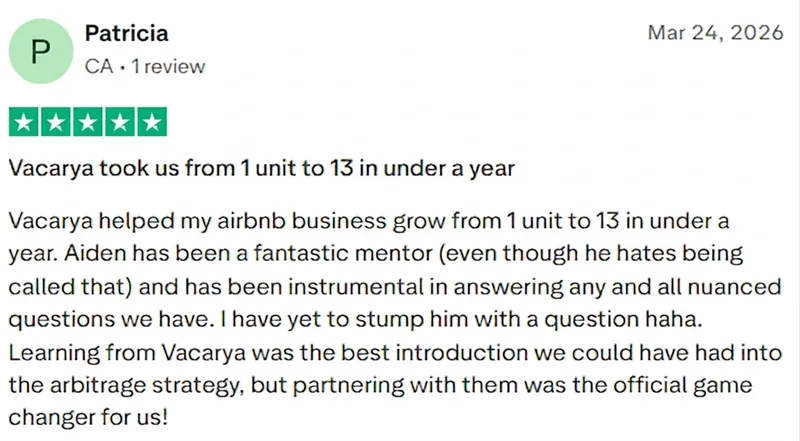
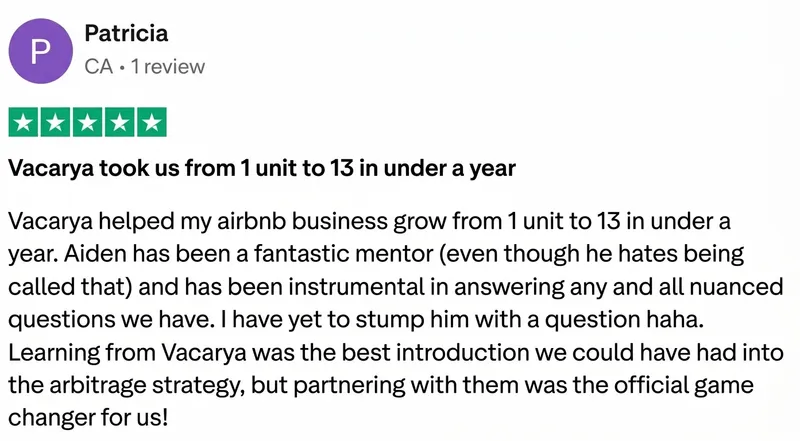
Replace the H Quinn and Patricia review screenshots
Both earlier captures had a date in the corner. These are recaptured without it.

Patricia comes out at the same 800x441, so nothing else moves. H Quinn is now a
real 800px capture rather than the 553px one it was — the only low-resolution
image in the set — so its entry picks up the new 800x477 dimensions and the note
calling that out is gone. The slightly taller box shifts its column by 23px,
well inside the balance the packer already holds.

Verified at 1400 and 390: 20 reviews in 3 then 2 columns, both images decoding
at their declared size, columns still level within 85px, and the ranking still
heading each column.

Claude-Session: https://claude.ai/code/session_015BAWUuADKdgvN3VfuBeefw

diff --git a/wordpress/vacarya-call-confirmation.html b/wordpress/vacarya-call-confirmation.html
@@ -655,7 +655,7 @@ body:has(.vcc-page) {
     <div class="vcc-divider" aria-hidden="true">|</div>
     <section class="vcc-card"><h2 class="vcc-card__header">Step 4: Hear From Our Partners</h2><div class="vcc-body vcc-partners"><div class="vcc-partners__grid"><div class="vcc-partner"><p class="vcc-partner__name">- Josh C.</p><div class="vcc-video" data-video="UH3YggU0nB1bDod_" data-ratio="177.78"><div id="vidalytics_embed_UH3YggU0nB1bDod_" class="vcc-video-mount" style="padding-top:177.78%"></div></div></div><div class="vcc-partner"><p class="vcc-partner__name">- Patricia G.</p><div class="vcc-video" data-video="9ZMBSpvLpcRNeL8m" data-ratio="177.78" data-loader="settings"><div id="9ZMBSpvLpcRNeL8m" class="vcc-video-mount" style="padding-top:177.78%"></div></div></div><div class="vcc-partner"><p class="vcc-partner__name">- Helen Q.</p><div class="vcc-video" data-video="_3LhJcZabSuVtAqn" data-ratio="177.78" data-loader="settings"><div id="_3LhJcZabSuVtAqn" class="vcc-video-mount" style="padding-top:177.78%"></div></div></div><div class="vcc-partner"><p class="vcc-partner__name">- Rob V.</p><div class="vcc-video" data-video="AT3E6HoGHbMxB4ug" data-ratio="177.78" data-loader="settings"><div id="AT3E6HoGHbMxB4ug" class="vcc-video-mount" style="padding-top:177.78%"></div></div></div><div class="vcc-partner"><p class="vcc-partner__name">- Ravi R.</p><div class="vcc-video" data-video="d6GhhPiwXRTZIh55" data-ratio="177.78" data-loader="settings"><div id="d6GhhPiwXRTZIh55" class="vcc-video-mount" style="padding-top:177.78%"></div></div></div><div class="vcc-partner"><p class="vcc-partner__name">- Mike E.</p><div class="vcc-video" data-video="S2udtgRr3weGPAMJ" data-ratio="177.78" data-loader="settings"><div id="S2udtgRr3weGPAMJ" class="vcc-video-mount" style="padding-top:177.78%"></div></div></div><div class="vcc-partner"><p class="vcc-partner__name">- Sajeed A.</p><div class="vcc-video" data-video="o9Ho5JnqweHAsKkj" data-ratio="177.78" data-loader="settings"><div id="o9Ho5JnqweHAsKkj" class="vcc-video-mount" style="padding-top:177.78%"></div></div></div><div class="vcc-partner"><p class="vcc-partner__name">- Kevin M.</p><div class="vcc-video" data-video="AtKNDCr00S_Yyh0G" data-ratio="177.78" data-loader="settings"><div id="AtKNDCr00S_Yyh0G" class="vcc-video-mount" style="padding-top:177.78%"></div></div></div><div class="vcc-partner"><p class="vcc-partner__name">- John S.</p><div class="vcc-video" data-video="TBDybqUkvVpuF5cy" data-ratio="177.78" data-loader="settings"><div id="TBDybqUkvVpuF5cy" class="vcc-video-mount" style="padding-top:177.78%"></div></div></div><div class="vcc-partner"><p class="vcc-partner__name">- Devang B.</p><div class="vcc-video" data-video="BEIWJ7hHIaXtj5E9" data-ratio="177.78" data-loader="settings"><div id="BEIWJ7hHIaXtj5E9" class="vcc-video-mount" style="padding-top:177.78%"></div></div></div><div class="vcc-partner"><p class="vcc-partner__name">- Greg L.</p><div class="vcc-video" data-video="O6XYSCu2jX0XvhUf" data-ratio="177.78" data-loader="settings"><div id="O6XYSCu2jX0XvhUf" class="vcc-video-mount" style="padding-top:177.78%"></div></div></div><div class="vcc-partner"><p class="vcc-partner__name">- Andy D.</p><div class="vcc-video" data-video="WoB8QPzALc0OUKH6" data-ratio="177.78"><div id="vidalytics_embed_WoB8QPzALc0OUKH6" class="vcc-video-mount" style="padding-top:177.78%"></div></div></div><div class="vcc-partner"><p class="vcc-partner__name">- Kajana D.</p><div class="vcc-video" data-video="YMTcLkxOfEPogHig" data-ratio="177.78"><div id="vidalytics_embed_YMTcLkxOfEPogHig" class="vcc-video-mount" style="padding-top:177.78%"></div></div></div><div class="vcc-partner"><p class="vcc-partner__name">- Fasi K.</p><div class="vcc-video" data-video="KCxrI1vlcJ71GTP9" data-ratio="177.78"><div id="vidalytics_embed_KCxrI1vlcJ71GTP9" class="vcc-video-mount" style="padding-top:177.78%"></div></div></div><div class="vcc-partner"><p class="vcc-partner__name">- Dylan M.</p><div class="vcc-video" data-video="C873MB3yzcU4eiHP" data-ratio="177.78"><div id="vidalytics_embed_C873MB3yzcU4eiHP" class="vcc-video-mount" style="padding-top:177.78%"></div></div></div><div class="vcc-partner"><p class="vcc-partner__name">- Jason L.</p><div class="vcc-video" data-video="Q7FZIMLXMLWHNdDk" data-ratio="177.78"><div id="vidalytics_embed_Q7FZIMLXMLWHNdDk" class="vcc-video-mount" style="padding-top:177.78%"></div></div></div><div class="vcc-partner"><p class="vcc-partner__name">- Dennis L.</p><div class="vcc-video" data-video="LUuJ8wfnCQ7QS1d3" data-ratio="177.78"><div id="vidalytics_embed_LUuJ8wfnCQ7QS1d3" class="vcc-video-mount" style="padding-top:177.78%"></div></div></div><div class="vcc-partner"><p class="vcc-partner__name">- Trevor J.</p><div class="vcc-video" data-video="WkyXHrLIcfaeY4yr" data-ratio="177.78"><div id="vidalytics_embed_WkyXHrLIcfaeY4yr" class="vcc-video-mount" style="padding-top:177.78%"></div></div></div><div class="vcc-partner"><p class="vcc-partner__name">- Trevor H.</p><div class="vcc-video" data-video="pJPnsekIVIAUwxYD" data-ratio="177.78"><div id="vidalytics_embed_pJPnsekIVIAUwxYD" class="vcc-video-mount" style="padding-top:177.78%"></div></div></div><div class="vcc-partner"><p class="vcc-partner__name">- Gaurav D.</p><div class="vcc-video" data-video="5KPTZEDzewMmOnXu" data-ratio="177.78" data-loader="settings"><div id="5KPTZEDzewMmOnXu" class="vcc-video-mount" style="padding-top:177.78%"></div></div></div><div class="vcc-partner"><p class="vcc-partner__name">- Tony G.</p><div class="vcc-video" data-video="cWgx4DGVi2lkzUK4" data-ratio="177.78" data-loader="settings"><div id="cWgx4DGVi2lkzUK4" class="vcc-video-mount" style="padding-top:177.78%"></div></div></div><div class="vcc-partner"><p class="vcc-partner__name">- Jessica</p><div class="vcc-video" data-video="zx8wRA3vo22fIHNK" data-ratio="177.78" data-loader="settings"><div id="zx8wRA3vo22fIHNK" class="vcc-video-mount" style="padding-top:177.78%"></div></div></div></div></div></section>
     <div class="vcc-divider" aria-hidden="true">|</div>
-    <section class="vcc-card"><h2 class="vcc-card__header">Step 5: Reviews &amp; Written Wins</h2><div class="vcc-body vcc-step5"><div class="vcc-reviews" id="vcc-reviews"><div class="vcc-reviews__column"><img class="vcc-review" src="https://vacarya-confirmation-page.vercel.app/reviews/review-20.webp" width="786" height="1999" alt="Client review" loading="lazy" decoding="async"><img class="vcc-review" src="https://vacarya-confirmation-page.vercel.app/reviews/review-11.webp" width="800" height="342" alt="Client review" loading="lazy" decoding="async"><img class="vcc-review" src="https://vacarya-confirmation-page.vercel.app/reviews/review-17.webp" width="800" height="942" alt="Client review" loading="lazy" decoding="async"><img class="vcc-review" src="https://vacarya-confirmation-page.vercel.app/reviews/review-8.webp" width="800" height="376" alt="Client review" loading="lazy" decoding="async"><img class="vcc-review" src="https://vacarya-confirmation-page.vercel.app/reviews/review-6.webp" width="800" height="276" alt="Client review" loading="lazy" decoding="async"></div><div class="vcc-reviews__column"><img class="vcc-review" src="https://vacarya-confirmation-page.vercel.app/reviews/review-14.webp" width="800" height="348" alt="Client review" loading="lazy" decoding="async"><img class="vcc-review" src="https://vacarya-confirmation-page.vercel.app/reviews/review-15.webp" width="800" height="414" alt="Client review" loading="lazy" decoding="async"><img class="vcc-review" src="https://vacarya-confirmation-page.vercel.app/reviews/review-2.webp" width="800" height="997" alt="Client review" loading="lazy" decoding="async"><img class="vcc-review" src="https://vacarya-confirmation-page.vercel.app/reviews/review-12.webp" width="800" height="416" alt="Client review" loading="lazy" decoding="async"><img class="vcc-review" src="https://vacarya-confirmation-page.vercel.app/reviews/review-9.webp" width="800" height="597" alt="Client review" loading="lazy" decoding="async"><img class="vcc-review" src="https://vacarya-confirmation-page.vercel.app/reviews/review-18.webp" width="800" height="411" alt="Client review" loading="lazy" decoding="async"><img class="vcc-review" src="https://vacarya-confirmation-page.vercel.app/reviews/review-7.webp" width="800" height="399" alt="Client review" loading="lazy" decoding="async"><img class="vcc-review" src="https://vacarya-confirmation-page.vercel.app/reviews/review-16.webp" width="800" height="314" alt="Client review" loading="lazy" decoding="async"></div><div class="vcc-reviews__column"><img class="vcc-review" src="https://vacarya-confirmation-page.vercel.app/reviews/review-4.webp" width="800" height="441" alt="Client review" loading="lazy" decoding="async"><img class="vcc-review" src="https://vacarya-confirmation-page.vercel.app/reviews/review-13.webp" width="800" height="823" alt="Client review" loading="lazy" decoding="async"><img class="vcc-review" src="https://vacarya-confirmation-page.vercel.app/reviews/review-3.webp" width="800" height="1114" alt="Client review" loading="lazy" decoding="async"><img class="vcc-review" src="https://vacarya-confirmation-page.vercel.app/reviews/review-1.webp" width="800" height="506" alt="Client review" loading="lazy" decoding="async"><img class="vcc-review" src="https://vacarya-confirmation-page.vercel.app/reviews/review-10.webp" width="800" height="389" alt="Client review" loading="lazy" decoding="async"><img class="vcc-review" src="https://vacarya-confirmation-page.vercel.app/reviews/review-5.webp" width="800" height="336" alt="Client review" loading="lazy" decoding="async"><img class="vcc-review" src="https://vacarya-confirmation-page.vercel.app/reviews/review-19.webp" width="553" height="330" alt="Client review" loading="lazy" decoding="async"></div></div><button type="button" class="vcc-more" id="vcc-more" aria-expanded="false">More Client Numbers</button><div class="vcc-earnings" id="vcc-earnings" hidden><img class="vcc-earning" data-src="https://vacarya-confirmation-page.vercel.app/revenue/earning-1.webp" width="272" height="444" alt="Client revenue" loading="lazy" decoding="async"><img class="vcc-earning" data-src="https://vacarya-confirmation-page.vercel.app/revenue/earning-2.webp" width="272" height="444" alt="Client revenue" loading="lazy" decoding="async"><img class="vcc-earning" data-src="https://vacarya-confirmation-page.vercel.app/revenue/earning-3.webp" width="272" height="444" alt="Client revenue" loading="lazy" decoding="async"><img class="vcc-earning" data-src="https://vacarya-confirmation-page.vercel.app/revenue/earning-4.webp" width="272" height="444" alt="Client revenue" loading="lazy" decoding="async"><img class="vcc-earning" data-src="https://vacarya-confirmation-page.vercel.app/revenue/earning-5.webp" width="272" height="444" alt="Client revenue" loading="lazy" decoding="async"><img class="vcc-earning" data-src="https://vacarya-confirmation-page.vercel.app/revenue/earning-6.webp" width="272" height="444" alt="Client revenue" loading="lazy" decoding="async"><img class="vcc-earning" data-src="https://vacarya-confirmation-page.vercel.app/revenue/earning-7.webp" width="272" height="444" alt="Client revenue" loading="lazy" decoding="async"><img class="vcc-earning" data-src="https://vacarya-confirmation-page.vercel.app/revenue/earning-8.webp" width="272" height="444" alt="Client revenue" loading="lazy" decoding="async"><img class="vcc-earning" data-src="https://vacarya-confirmation-page.vercel.app/revenue/earning-9.webp" width="272" height="444" alt="Client revenue" loading="lazy" decoding="async"><img class="vcc-earning" data-src="https://vacarya-confirmation-page.vercel.app/revenue/earning-10.webp" width="272" height="444" alt="Client revenue" loading="lazy" decoding="async"><img class="vcc-earning" data-src="https://vacarya-confirmation-page.vercel.app/revenue/earning-11.webp" width="272" height="444" alt="Client revenue" loading="lazy" decoding="async"><img class="vcc-earning" data-src="https://vacarya-confirmation-page.vercel.app/revenue/earning-12.webp" width="272" height="444" alt="Client revenue" loading="lazy" decoding="async"><img class="vcc-earning" data-src="https://vacarya-confirmation-page.vercel.app/revenue/earning-13.webp" width="272" height="444" alt="Client revenue" loading="lazy" decoding="async"><img class="vcc-earning" data-src="https://vacarya-confirmation-page.vercel.app/revenue/earning-14.webp" width="272" height="444" alt="Client revenue" loading="lazy" decoding="async"><img class="vcc-earning" data-src="https://vacarya-confirmation-page.vercel.app/revenue/earning-15.webp" width="272" height="444" alt="Client revenue" loading="lazy" decoding="async"><img class="vcc-earning" data-src="https://vacarya-confirmation-page.vercel.app/revenue/earning-16.webp" width="272" height="444" alt="Client revenue" loading="lazy" decoding="async"><img class="vcc-earning" data-src="https://vacarya-confirmation-page.vercel.app/revenue/earning-17.webp" width="272" height="444" alt="Client revenue" loading="lazy" decoding="async"><img class="vcc-earning" data-src="https://vacarya-confirmation-page.vercel.app/revenue/earning-18.webp" width="272" height="444" alt="Client revenue" loading="lazy" decoding="async"><img class="vcc-earning" data-src="https://vacarya-confirmation-page.vercel.app/revenue/earning-19.webp" width="272" height="444" alt="Client revenue" loading="lazy" decoding="async"><img class="vcc-earning" data-src="https://vacarya-confirmation-page.vercel.app/revenue/earning-20.webp" width="272" height="444" alt="Client revenue" loading="lazy" decoding="async"><img class="vcc-earning" data-src="https://vacarya-confirmation-page.vercel.app/revenue/earning-21.webp" width="272" height="444" alt="Client revenue" loading="lazy" decoding="async"><img class="vcc-earning" data-src="https://vacarya-confirmation-page.vercel.app/revenue/earning-22.webp" width="272" height="444" alt="Client revenue" loading="lazy" decoding="async"><img class="vcc-earning" data-src="https://vacarya-confirmation-page.vercel.app/revenue/earning-23.webp" width="272" height="444" alt="Client revenue" loading="lazy" decoding="async"><img class="vcc-earning" data-src="https://vacarya-confirmation-page.vercel.app/revenue/earning-24.webp" width="272" height="444" alt="Client revenue" loading="lazy" decoding="async"><img class="vcc-earning" data-src="https://vacarya-confirmation-page.vercel.app/revenue/earning-25.webp" width="272" height="444" alt="Client revenue" loading="lazy" decoding="async"><img class="vcc-earning" data-src="https://vacarya-confirmation-page.vercel.app/revenue/earning-26.webp" width="272" height="444" alt="Client revenue" loading="lazy" decoding="async"><img class="vcc-earning" data-src="https://vacarya-confirmation-page.vercel.app/revenue/earning-27.webp" width="272" height="444" alt="Client revenue" loading="lazy" decoding="async"><img class="vcc-earning" data-src="https://vacarya-confirmation-page.vercel.app/revenue/earning-28.webp" width="272" height="444" alt="Client revenue" loading="lazy" decoding="async"></div></div></section>
+    <section class="vcc-card"><h2 class="vcc-card__header">Step 5: Reviews &amp; Written Wins</h2><div class="vcc-body vcc-step5"><div class="vcc-reviews" id="vcc-reviews"><div class="vcc-reviews__column"><img class="vcc-review" src="https://vacarya-confirmation-page.vercel.app/reviews/review-20.webp" width="786" height="1999" alt="Client review" loading="lazy" decoding="async"><img class="vcc-review" src="https://vacarya-confirmation-page.vercel.app/reviews/review-11.webp" width="800" height="342" alt="Client review" loading="lazy" decoding="async"><img class="vcc-review" src="https://vacarya-confirmation-page.vercel.app/reviews/review-17.webp" width="800" height="942" alt="Client review" loading="lazy" decoding="async"><img class="vcc-review" src="https://vacarya-confirmation-page.vercel.app/reviews/review-8.webp" width="800" height="376" alt="Client review" loading="lazy" decoding="async"><img class="vcc-review" src="https://vacarya-confirmation-page.vercel.app/reviews/review-6.webp" width="800" height="276" alt="Client review" loading="lazy" decoding="async"></div><div class="vcc-reviews__column"><img class="vcc-review" src="https://vacarya-confirmation-page.vercel.app/reviews/review-14.webp" width="800" height="348" alt="Client review" loading="lazy" decoding="async"><img class="vcc-review" src="https://vacarya-confirmation-page.vercel.app/reviews/review-15.webp" width="800" height="414" alt="Client review" loading="lazy" decoding="async"><img class="vcc-review" src="https://vacarya-confirmation-page.vercel.app/reviews/review-2.webp" width="800" height="997" alt="Client review" loading="lazy" decoding="async"><img class="vcc-review" src="https://vacarya-confirmation-page.vercel.app/reviews/review-12.webp" width="800" height="416" alt="Client review" loading="lazy" decoding="async"><img class="vcc-review" src="https://vacarya-confirmation-page.vercel.app/reviews/review-9.webp" width="800" height="597" alt="Client review" loading="lazy" decoding="async"><img class="vcc-review" src="https://vacarya-confirmation-page.vercel.app/reviews/review-18.webp" width="800" height="411" alt="Client review" loading="lazy" decoding="async"><img class="vcc-review" src="https://vacarya-confirmation-page.vercel.app/reviews/review-7.webp" width="800" height="399" alt="Client review" loading="lazy" decoding="async"><img class="vcc-review" src="https://vacarya-confirmation-page.vercel.app/reviews/review-16.webp" width="800" height="314" alt="Client review" loading="lazy" decoding="async"></div><div class="vcc-reviews__column"><img class="vcc-review" src="https://vacarya-confirmation-page.vercel.app/reviews/review-4.webp" width="800" height="441" alt="Client review" loading="lazy" decoding="async"><img class="vcc-review" src="https://vacarya-confirmation-page.vercel.app/reviews/review-13.webp" width="800" height="823" alt="Client review" loading="lazy" decoding="async"><img class="vcc-review" src="https://vacarya-confirmation-page.vercel.app/reviews/review-3.webp" width="800" height="1114" alt="Client review" loading="lazy" decoding="async"><img class="vcc-review" src="https://vacarya-confirmation-page.vercel.app/reviews/review-1.webp" width="800" height="506" alt="Client review" loading="lazy" decoding="async"><img class="vcc-review" src="https://vacarya-confirmation-page.vercel.app/reviews/review-10.webp" width="800" height="389" alt="Client review" loading="lazy" decoding="async"><img class="vcc-review" src="https://vacarya-confirmation-page.vercel.app/reviews/review-5.webp" width="800" height="336" alt="Client review" loading="lazy" decoding="async"><img class="vcc-review" src="https://vacarya-confirmation-page.vercel.app/reviews/review-19.webp" width="800" height="477" alt="Client review" loading="lazy" decoding="async"></div></div><button type="button" class="vcc-more" id="vcc-more" aria-expanded="false">More Client Numbers</button><div class="vcc-earnings" id="vcc-earnings" hidden><img class="vcc-earning" data-src="https://vacarya-confirmation-page.vercel.app/revenue/earning-1.webp" width="272" height="444" alt="Client revenue" loading="lazy" decoding="async"><img class="vcc-earning" data-src="https://vacarya-confirmation-page.vercel.app/revenue/earning-2.webp" width="272" height="444" alt="Client revenue" loading="lazy" decoding="async"><img class="vcc-earning" data-src="https://vacarya-confirmation-page.vercel.app/revenue/earning-3.webp" width="272" height="444" alt="Client revenue" loading="lazy" decoding="async"><img class="vcc-earning" data-src="https://vacarya-confirmation-page.vercel.app/revenue/earning-4.webp" width="272" height="444" alt="Client revenue" loading="lazy" decoding="async"><img class="vcc-earning" data-src="https://vacarya-confirmation-page.vercel.app/revenue/earning-5.webp" width="272" height="444" alt="Client revenue" loading="lazy" decoding="async"><img class="vcc-earning" data-src="https://vacarya-confirmation-page.vercel.app/revenue/earning-6.webp" width="272" height="444" alt="Client revenue" loading="lazy" decoding="async"><img class="vcc-earning" data-src="https://vacarya-confirmation-page.vercel.app/revenue/earning-7.webp" width="272" height="444" alt="Client revenue" loading="lazy" decoding="async"><img class="vcc-earning" data-src="https://vacarya-confirmation-page.vercel.app/revenue/earning-8.webp" width="272" height="444" alt="Client revenue" loading="lazy" decoding="async"><img class="vcc-earning" data-src="https://vacarya-confirmation-page.vercel.app/revenue/earning-9.webp" width="272" height="444" alt="Client revenue" loading="lazy" decoding="async"><img class="vcc-earning" data-src="https://vacarya-confirmation-page.vercel.app/revenue/earning-10.webp" width="272" height="444" alt="Client revenue" loading="lazy" decoding="async"><img class="vcc-earning" data-src="https://vacarya-confirmation-page.vercel.app/revenue/earning-11.webp" width="272" height="444" alt="Client revenue" loading="lazy" decoding="async"><img class="vcc-earning" data-src="https://vacarya-confirmation-page.vercel.app/revenue/earning-12.webp" width="272" height="444" alt="Client revenue" loading="lazy" decoding="async"><img class="vcc-earning" data-src="https://vacarya-confirmation-page.vercel.app/revenue/earning-13.webp" width="272" height="444" alt="Client revenue" loading="lazy" decoding="async"><img class="vcc-earning" data-src="https://vacarya-confirmation-page.vercel.app/revenue/earning-14.webp" width="272" height="444" alt="Client revenue" loading="lazy" decoding="async"><img class="vcc-earning" data-src="https://vacarya-confirmation-page.vercel.app/revenue/earning-15.webp" width="272" height="444" alt="Client revenue" loading="lazy" decoding="async"><img class="vcc-earning" data-src="https://vacarya-confirmation-page.vercel.app/revenue/earning-16.webp" width="272" height="444" alt="Client revenue" loading="lazy" decoding="async"><img class="vcc-earning" data-src="https://vacarya-confirmation-page.vercel.app/revenue/earning-17.webp" width="272" height="444" alt="Client revenue" loading="lazy" decoding="async"><img class="vcc-earning" data-src="https://vacarya-confirmation-page.vercel.app/revenue/earning-18.webp" width="272" height="444" alt="Client revenue" loading="lazy" decoding="async"><img class="vcc-earning" data-src="https://vacarya-confirmation-page.vercel.app/revenue/earning-19.webp" width="272" height="444" alt="Client revenue" loading="lazy" decoding="async"><img class="vcc-earning" data-src="https://vacarya-confirmation-page.vercel.app/revenue/earning-20.webp" width="272" height="444" alt="Client revenue" loading="lazy" decoding="async"><img class="vcc-earning" data-src="https://vacarya-confirmation-page.vercel.app/revenue/earning-21.webp" width="272" height="444" alt="Client revenue" loading="lazy" decoding="async"><img class="vcc-earning" data-src="https://vacarya-confirmation-page.vercel.app/revenue/earning-22.webp" width="272" height="444" alt="Client revenue" loading="lazy" decoding="async"><img class="vcc-earning" data-src="https://vacarya-confirmation-page.vercel.app/revenue/earning-23.webp" width="272" height="444" alt="Client revenue" loading="lazy" decoding="async"><img class="vcc-earning" data-src="https://vacarya-confirmation-page.vercel.app/revenue/earning-24.webp" width="272" height="444" alt="Client revenue" loading="lazy" decoding="async"><img class="vcc-earning" data-src="https://vacarya-confirmation-page.vercel.app/revenue/earning-25.webp" width="272" height="444" alt="Client revenue" loading="lazy" decoding="async"><img class="vcc-earning" data-src="https://vacarya-confirmation-page.vercel.app/revenue/earning-26.webp" width="272" height="444" alt="Client revenue" loading="lazy" decoding="async"><img class="vcc-earning" data-src="https://vacarya-confirmation-page.vercel.app/revenue/earning-27.webp" width="272" height="444" alt="Client revenue" loading="lazy" decoding="async"><img class="vcc-earning" data-src="https://vacarya-confirmation-page.vercel.app/revenue/earning-28.webp" width="272" height="444" alt="Client revenue" loading="lazy" decoding="async"></div></div></section>
     <div class="vcc-divider" aria-hidden="true">|</div>
     <section class="vcc-card"><h2 class="vcc-card__header">Bonus: Recent Case Studies</h2><div class="vcc-body vcc-case-studies"><div class="vcc-case-study"><h3 class="vcc-case-study__title">Two Years Ago, Kajana Was Let Go. Today, She Runs 21 Airbnb Properties.</h3><div class="vcc-video" data-video="r8cg1w54h5ld2Yqh" data-ratio="56.25"><div id="vidalytics_embed_r8cg1w54h5ld2Yqh" class="vcc-video-mount" style="padding-top:56.25%"></div></div></div><div class="vcc-case-study"><h3 class="vcc-case-study__title">How We Took Patricia From 1 to 13 Properties in Under One Year</h3><div class="vcc-video" data-video="Giqo4Xgx53dNyznB" data-ratio="56.25"><div id="vidalytics_embed_Giqo4Xgx53dNyznB" class="vcc-video-mount" style="padding-top:56.25%"></div></div></div></div></section>
   </div>
@@ -682,7 +682,7 @@ body:has(.vcc-page) {
 (function () {
   var BASE = "https://vacarya-confirmation-page.vercel.app";
   var ACCOUNT = "xWCLYwSv";
-  var REVIEWS = [{"src":"https://vacarya-confirmation-page.vercel.app/reviews/review-20.webp","width":786,"height":1999},{"src":"https://vacarya-confirmation-page.vercel.app/reviews/review-14.webp","width":800,"height":348},{"src":"https://vacarya-confirmation-page.vercel.app/reviews/review-4.webp","width":800,"height":441},{"src":"https://vacarya-confirmation-page.vercel.app/reviews/review-15.webp","width":800,"height":414},{"src":"https://vacarya-confirmation-page.vercel.app/reviews/review-13.webp","width":800,"height":823},{"src":"https://vacarya-confirmation-page.vercel.app/reviews/review-2.webp","width":800,"height":997},{"src":"https://vacarya-confirmation-page.vercel.app/reviews/review-3.webp","width":800,"height":1114},{"src":"https://vacarya-confirmation-page.vercel.app/reviews/review-12.webp","width":800,"height":416},{"src":"https://vacarya-confirmation-page.vercel.app/reviews/review-11.webp","width":800,"height":342},{"src":"https://vacarya-confirmation-page.vercel.app/reviews/review-9.webp","width":800,"height":597},{"src":"https://vacarya-confirmation-page.vercel.app/reviews/review-17.webp","width":800,"height":942},{"src":"https://vacarya-confirmation-page.vercel.app/reviews/review-1.webp","width":800,"height":506},{"src":"https://vacarya-confirmation-page.vercel.app/reviews/review-18.webp","width":800,"height":411},{"src":"https://vacarya-confirmation-page.vercel.app/reviews/review-10.webp","width":800,"height":389},{"src":"https://vacarya-confirmation-page.vercel.app/reviews/review-7.webp","width":800,"height":399},{"src":"https://vacarya-confirmation-page.vercel.app/reviews/review-5.webp","width":800,"height":336},{"src":"https://vacarya-confirmation-page.vercel.app/reviews/review-8.webp","width":800,"height":376},{"src":"https://vacarya-confirmation-page.vercel.app/reviews/review-16.webp","width":800,"height":314},{"src":"https://vacarya-confirmation-page.vercel.app/reviews/review-19.webp","width":553,"height":330},{"src":"https://vacarya-confirmation-page.vercel.app/reviews/review-6.webp","width":800,"height":276}];
+  var REVIEWS = [{"src":"https://vacarya-confirmation-page.vercel.app/reviews/review-20.webp","width":786,"height":1999},{"src":"https://vacarya-confirmation-page.vercel.app/reviews/review-14.webp","width":800,"height":348},{"src":"https://vacarya-confirmation-page.vercel.app/reviews/review-4.webp","width":800,"height":441},{"src":"https://vacarya-confirmation-page.vercel.app/reviews/review-15.webp","width":800,"height":414},{"src":"https://vacarya-confirmation-page.vercel.app/reviews/review-13.webp","width":800,"height":823},{"src":"https://vacarya-confirmation-page.vercel.app/reviews/review-2.webp","width":800,"height":997},{"src":"https://vacarya-confirmation-page.vercel.app/reviews/review-3.webp","width":800,"height":1114},{"src":"https://vacarya-confirmation-page.vercel.app/reviews/review-12.webp","width":800,"height":416},{"src":"https://vacarya-confirmation-page.vercel.app/reviews/review-11.webp","width":800,"height":342},{"src":"https://vacarya-confirmation-page.vercel.app/reviews/review-9.webp","width":800,"height":597},{"src":"https://vacarya-confirmation-page.vercel.app/reviews/review-17.webp","width":800,"height":942},{"src":"https://vacarya-confirmation-page.vercel.app/reviews/review-1.webp","width":800,"height":506},{"src":"https://vacarya-confirmation-page.vercel.app/reviews/review-18.webp","width":800,"height":411},{"src":"https://vacarya-confirmation-page.vercel.app/reviews/review-10.webp","width":800,"height":389},{"src":"https://vacarya-confirmation-page.vercel.app/reviews/review-7.webp","width":800,"height":399},{"src":"https://vacarya-confirmation-page.vercel.app/reviews/review-5.webp","width":800,"height":336},{"src":"https://vacarya-confirmation-page.vercel.app/reviews/review-8.webp","width":800,"height":376},{"src":"https://vacarya-confirmation-page.vercel.app/reviews/review-16.webp","width":800,"height":314},{"src":"https://vacarya-confirmation-page.vercel.app/reviews/review-19.webp","width":800,"height":477},{"src":"https://vacarya-confirmation-page.vercel.app/reviews/review-6.webp","width":800,"height":276}];
 
   /* --- Vidalytics: one loader per player, never twice -------------------
    * Two embed snippets are in play. The classic one fetches loader.min.js and

diff --git a/src/CallConfirmation.tsx b/src/CallConfirmation.tsx
@@ -148,8 +148,8 @@ const REVIEWS: Review[] = [
   { src: "/reviews/review-8.webp", width: 800, height: 376 },
   // Greg — support and group calls only.
   { src: "/reviews/review-16.webp", width: 800, height: 314 },
-  // H Quinn — warm but entirely general. Also the one low-resolution capture.
-  { src: "/reviews/review-19.webp", width: 553, height: 330 },
+  // H Quinn — warm but entirely general.
+  { src: "/reviews/review-19.webp", width: 800, height: 477 },
   // Fast Moving Homes — two lines, no specifics.
   { src: "/reviews/review-6.webp", width: 800, height: 276 },
 ];
